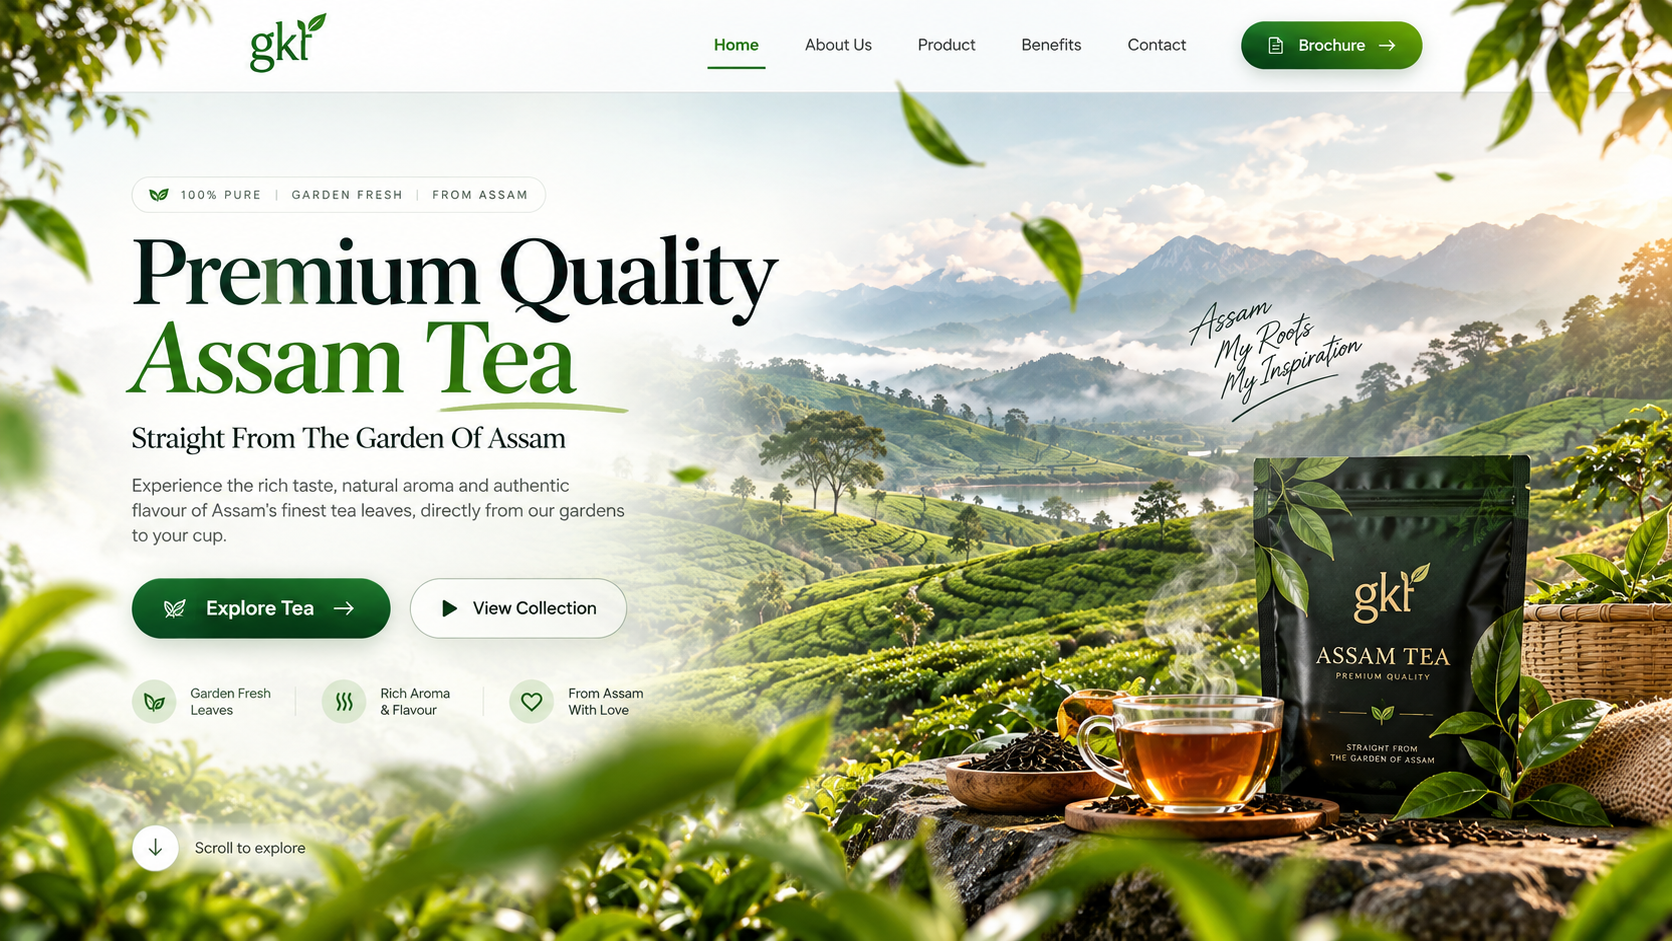
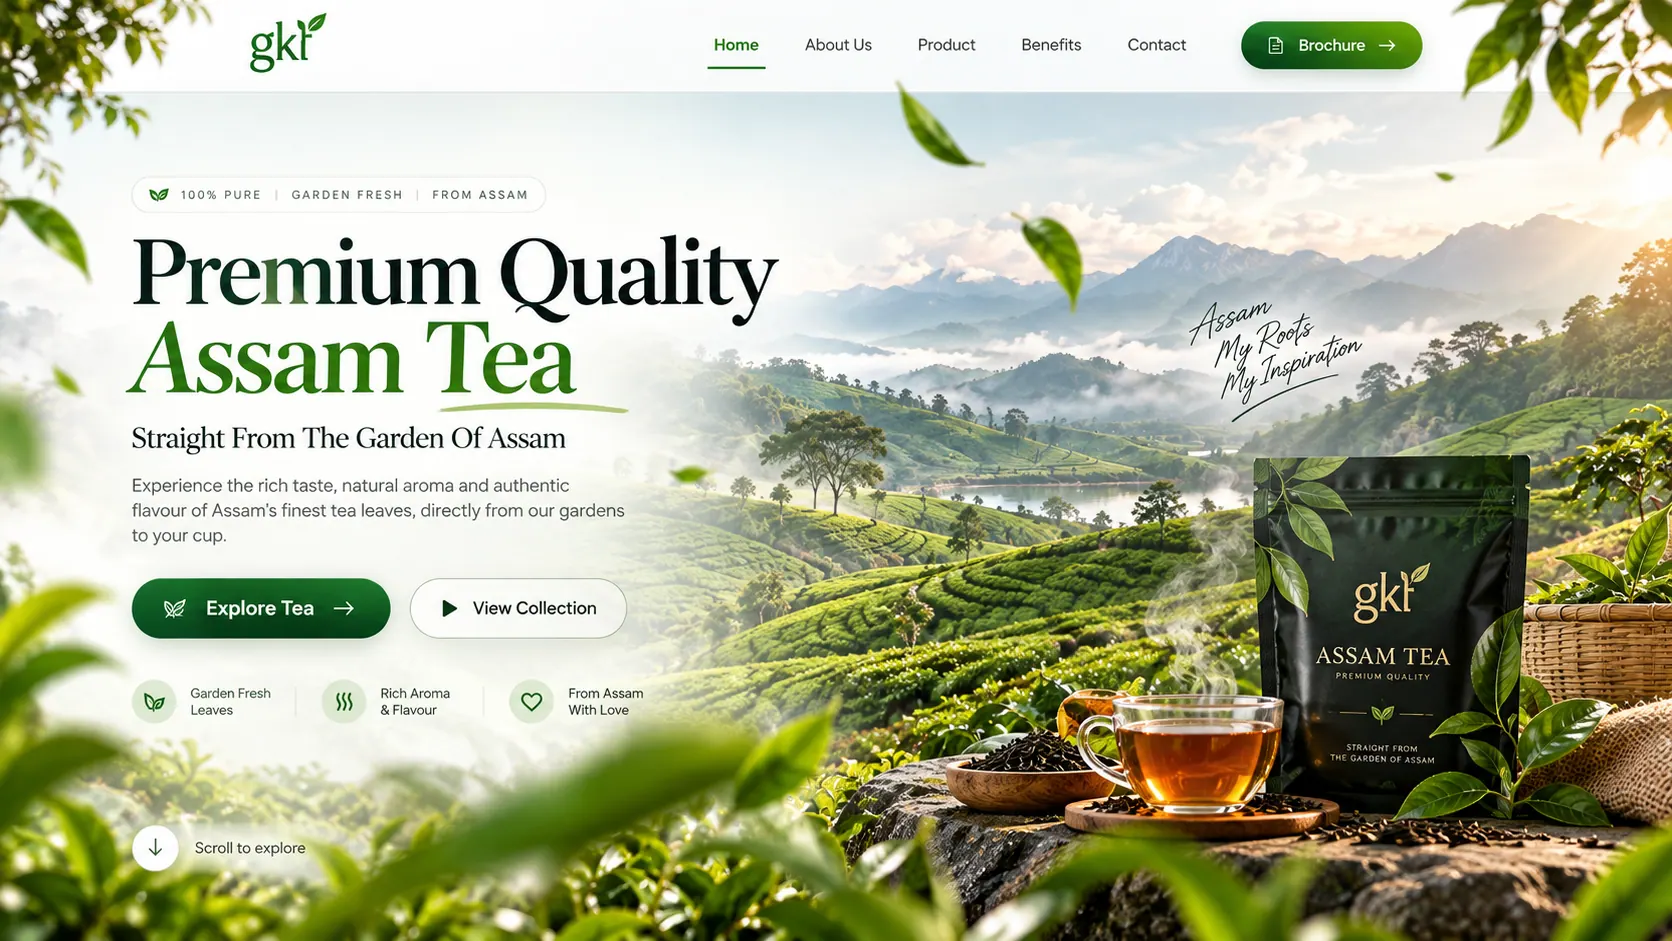
Performance: split JS into lazy chunks, compress/convert images to WebP, single font request, lazy images, lighter audio preload

Changed region(s): [[0.9952, 0.5239, 1.0, 0.5547]]

diff --git a/src/App.tsx b/src/App.tsx
@@ -9,13 +9,6 @@ import GlobalBackground from "@/components/GlobalBackground";
 import Navbar from "@/components/Navbar";
 import Hero from "@/components/Hero";
 import Marquee from "@/components/Marquee";
-import About from "@/components/About";
-import Projects from "@/components/Projects";
-import VideoShowcase from "@/components/video-showcase/VideoShowcase";
-import Services from "@/components/Services";
-import Testimonials from "@/components/testimonials/Testimonials";
-import Contact from "@/components/Contact";
-import Footer from "@/components/Footer";
 import NotFound from "@/pages/not-found";
 import ServiceDetail from "@/pages/ServiceDetail";
 import Support from "@/pages/Support";
@@ -23,6 +16,23 @@ import Analytics from "@/components/Analytics";
 import { captureAttribution } from "@/lib/attribution";
 
 // Private admin dashboard — lazy so it adds nothing to the public bundle.
+// Below-the-fold sections load as separate chunks, then are prefetched when the browser is idle
+const loadAbout = () => import("@/components/About");
+const About = lazy(loadAbout);
+const loadProjects = () => import("@/components/Projects");
+const Projects = lazy(loadProjects);
+const loadVideoShowcase = () => import("@/components/video-showcase/VideoShowcase");
+const VideoShowcase = lazy(loadVideoShowcase);
+const loadServices = () => import("@/components/Services");
+const Services = lazy(loadServices);
+const loadTestimonials = () => import("@/components/testimonials/Testimonials");
+const Testimonials = lazy(loadTestimonials);
+const loadContact = () => import("@/components/Contact");
+const Contact = lazy(loadContact);
+const loadFooter = () => import("@/components/Footer");
+const Footer = lazy(loadFooter);
+const prefetchSections = [loadAbout, loadProjects, loadVideoShowcase, loadServices, loadTestimonials, loadContact, loadFooter];
+function SectionFallback() { return <div aria-hidden="true" className="min-h-[60vh]" />; }
 const Admin = lazy(() => import("@/pages/Admin"));
 
 const queryClient = new QueryClient();
@@ -41,20 +51,31 @@ function Portfolio() {
     return () => window.clearTimeout(t);
   }, []);
 
+  useEffect(() => {
+    const run = () => prefetchSections.forEach((l) => { l().catch(() => {}); });
+    const w = window as Window & { requestIdleCallback?: (cb: () => void, o?: { timeout: number }) => number };
+    if (w.requestIdleCallback) w.requestIdleCallback(run, { timeout: 4000 });
+    else setTimeout(run, 2500);
+  }, []);
+
   return (
     <>
       <Navbar />
       <main className="max-w-full overflow-x-hidden">
         <Hero />
         <Marquee />
-        <About />
-        <Projects />
-        <VideoShowcase />
-        <Services />
-        <Testimonials />
-        <Contact />
+        <Suspense fallback={<SectionFallback />}>
+          <About />
+          <Projects />
+          <VideoShowcase />
+          <Services />
+          <Testimonials />
+          <Contact />
+        </Suspense>
       </main>
-      <Footer />
+      <Suspense fallback={null}>
+        <Footer />
+      </Suspense>
     </>
   );
 }

diff --git a/src/pages/ServiceDetail.tsx b/src/pages/ServiceDetail.tsx
@@ -51,7 +51,7 @@ function ToolBadge({ t }: { t: Tool }) {
     <div className="flex w-[92px] flex-col items-center gap-2 text-center sm:w-[104px]">
       <span className="flex h-16 w-16 items-center justify-center rounded-2xl border border-slate-100 bg-white shadow-sm transition duration-300 hover:-translate-y-1 hover:shadow-lg sm:h-[72px] sm:w-[72px]">
         {t.logo ? (
-          <img src={t.logo} alt="" className="h-9 w-9 rounded-md" />
+          <img loading="lazy" decoding="async" src={t.logo} alt="" className="h-9 w-9 rounded-md" />
         ) : Icon ? (
           <Icon className="text-3xl sm:text-[34px]" style={{ color: t.color }} />
         ) : (
@@ -152,7 +152,7 @@ export default function ServiceDetail() {
                     const Icon = b.icon;
                     return (
                       <span key={b.label} title={b.label} className="flex h-12 w-12 items-center justify-center rounded-2xl bg-white shadow-md">
-                        {b.logo ? <img src={b.logo} alt={b.label} className="h-7 w-7 rounded-md" /> : Icon ? <Icon className="text-2xl" style={{ color: b.color }} /> : <span className="text-lg font-extrabold" style={{ color: b.color }}>{b.text}</span>}
+                        {b.logo ? <img loading="lazy" decoding="async" src={b.logo} alt={b.label} className="h-7 w-7 rounded-md" /> : Icon ? <Icon className="text-2xl" style={{ color: b.color }} /> : <span className="text-lg font-extrabold" style={{ color: b.color }}>{b.text}</span>}
                       </span>
                     );
                   })}

diff --git a/src/components/Hero.tsx b/src/components/Hero.tsx
@@ -7,7 +7,7 @@ import { desktopMasks, mobileMasks } from "@/components/parallaxMasks";
 import "@/components/brush-reveal.css";
 import { motion, useScroll, useTransform, useSpring, useMotionValueEvent, useInView, useReducedMotion } from "@/lib/static-motion";
 import { useRef, useState, useEffect } from "react";
-import teaBg from "../assets/images/file_0000000066b08207b18b1ec1e8269869.png";
+import teaBg from "../assets/images/file_0000000066b08207b18b1ec1e8269869.webp";
 import teaBgMobile from "../assets/images/tea-brush-mobile.webp";
 import SplitText from "@/components/ui/SplitText";
 import HeroCTAs from "@/components/HeroCTA";
@@ -18,9 +18,9 @@ import PortraitFX from "@/components/PortraitFX";
 
 // ── Desktop-only Hero assets ──────────────────────────────────────────────
 import desktopPortrait from "../assets/images/Desktop Nikhil Paharia profile photo.png";
-import brushStroke from "../assets/images/blue-brush-stroke.png";
+import brushStroke from "../assets/images/blue-brush-stroke.webp";
 import botamLeft from "../assets/images/botam-left.png";
-import ovalLandscape from "../assets/images/Assam landscape.png";
+import ovalLandscape from "../assets/images/Assam landscape.webp";
 import threeStrokes from "../assets/images/three-strokes.png.png";
 // assam-map-clean.webp ships with its "transparent" background baked in as an
 // opaque checkerboard (no real alpha channel) — assam-map-transparent.png is

diff --git a/src/components/About.tsx b/src/components/About.tsx
@@ -1920,12 +1920,12 @@ export default function About() {
                   style={{}}
                 >
                   <NotebookPage className="p-0 flex items-center justify-center overflow-hidden">
-                    <img src={aboutPage1} alt="About Me — The Beginning: from a tea garden village in Assam to building things on the internet" draggable={false} className="w-full h-full object-contain select-none" />
+                    <img loading="lazy" decoding="async" src={aboutPage1} alt="About Me — The Beginning: from a tea garden village in Assam to building things on the internet" draggable={false} className="w-full h-full object-contain select-none" />
                   </NotebookPage>
 
                   {/* ═══════════ PAGE 2 ═══════════ */}
                   <NotebookPage className="p-0 flex items-center justify-center overflow-hidden">
-                    <img src={aboutPage2} alt="About Me — Art with a purpose: what I do, tech I work with, daily fuel" draggable={false} className="w-full h-full object-contain select-none" />
+                    <img loading="lazy" decoding="async" src={aboutPage2} alt="About Me — Art with a purpose: what I do, tech I work with, daily fuel" draggable={false} className="w-full h-full object-contain select-none" />
                   </NotebookPage>
 
                   {/* ═══════════ PAGES 3–10 — the photo gallery ═══════════

diff --git a/src/components/video-showcase/VideoLightbox.tsx b/src/components/video-showcase/VideoLightbox.tsx
@@ -192,7 +192,7 @@ export default function VideoLightbox({ items, index, onIndexChange, onClose }: 
                     className={`absolute inset-0 transition-opacity duration-500 ${loaded ? "opacity-0 pointer-events-none" : "opacity-100"}`}
                     aria-hidden={loaded}
                   >
-                    {item.image && <img src={item.image} alt="" className="absolute inset-0 w-full h-full object-cover" />}
+                    {item.image && <img loading="lazy" decoding="async" src={item.image} alt="" className="absolute inset-0 w-full h-full object-cover" />}
                     <div className="absolute inset-0 bg-black/55" />
                     <div className="absolute inset-0 flex flex-col items-center justify-center gap-3 text-white/90">
                       <span className="w-10 h-10 rounded-full border-2 border-white/25 border-t-white animate-spin motion-reduce:animate-none" />

diff --git a/src/components/video-showcase/FeaturedVideoCard.tsx b/src/components/video-showcase/FeaturedVideoCard.tsx
@@ -293,7 +293,7 @@ export default function FeaturedVideoCard() {
                 }`}
               >
                 <div className={`absolute inset-0 transition-opacity duration-500 ${loaded ? "opacity-0 pointer-events-none" : "opacity-100"}`} aria-hidden={loaded}>
-                  <img src={current.image} alt="" className="absolute inset-0 w-full h-full object-cover" />
+                  <img loading="lazy" decoding="async" src={current.image} alt="" className="absolute inset-0 w-full h-full object-cover" />
                   <div className="absolute inset-0 bg-black/55 flex flex-col items-center justify-center gap-3 text-white/90">
                     <span className="w-10 h-10 rounded-full border-2 border-white/25 border-t-white animate-spin motion-reduce:animate-none" />
                     <span className="text-[11px] font-semibold uppercase tracking-[0.16em]">Loading film…</span>

diff --git a/index.html b/index.html
@@ -49,7 +49,7 @@
     <link rel="icon" type="image/svg+xml" href="/favicon.svg" />
     <link rel="preconnect" href="https://fonts.googleapis.com">
     <link rel="preconnect" href="https://fonts.gstatic.com" crossorigin>
-    <link href="https://fonts.googleapis.com/css2?family=Inter:wght@400;500;600;700&family=Anton&family=DM+Sans:wght@500;700&family=Kalam:wght@400;700&family=Montserrat:ital,wght@0,800;1,800&display=swap" rel="stylesheet">
+    <link href="https://fonts.googleapis.com/css2?family=Inter:wght@400;500;600;700&family=Anton&family=DM+Sans:wght@500;700&family=Kalam:wght@400;700&family=Montserrat:ital,wght@0,800;1,800&family=Caveat:wght@500;700&family=Space+Grotesk:wght@300..700&family=Syne:wght@400..800&display=swap" rel="stylesheet">
   </head>
   <body>
     <div id="root"></div>

diff --git a/vite.config.ts b/vite.config.ts
@@ -19,6 +19,18 @@ export default defineConfig({
   build: {
     outDir: path.resolve(import.meta.dirname, "dist"),
     emptyOutDir: true,
+    rollupOptions: {
+      output: {
+        manualChunks(id: string) {
+          if (!id.includes("node_modules")) return undefined;
+          if (/framer-motion|motion-dom|motion-utils/.test(id)) return "vendor-motion";
+          if (/node_modules\/gsap/.test(id)) return "vendor-gsap";
+          if (/@radix-ui|cmdk|vaul|embla/.test(id)) return "vendor-ui";
+          if (/node_modules\/(react|react-dom|scheduler|wouter)\//.test(id)) return "vendor-react";
+          return undefined;
+        },
+      },
+    },
   },
   server: { port, host: "0.0.0.0", allowedHosts: true },
   preview: { port, host: "0.0.0.0", allowedHosts: true },

diff --git a/src/components/testimonials/SubmitTestimonialModal.tsx b/src/components/testimonials/SubmitTestimonialModal.tsx
@@ -284,7 +284,7 @@ export default function SubmitTestimonialModal({ open, onClose }: SubmitTestimon
                       <div className="flex items-center gap-3">
                         <div className="w-12 h-12 rounded-full overflow-hidden bg-slate-100 border border-slate-200 flex items-center justify-center shrink-0">
                           {photoDataUrl ? (
-                            <img src={photoDataUrl} alt="" className="w-full h-full object-cover" />
+                            <img loading="lazy" decoding="async" src={photoDataUrl} alt="" className="w-full h-full object-cover" />
                           ) : (
                             <User className="w-5 h-5 text-slate-400" aria-hidden="true" />
                           )}

diff --git a/src/components/ServicesMobileStack.tsx b/src/components/ServicesMobileStack.tsx
@@ -104,7 +104,7 @@ function FanDeckCard({ service, index, total }: { service: ServiceItem; index: n
                     className="w-12 h-12 sm:w-14 sm:h-14 rounded-2xl bg-white flex items-center justify-center shadow-sm overflow-hidden"
                   >
                     {b.logo ? (
-                      <img src={b.logo} alt={b.label} className="w-7 h-7 sm:w-8 sm:h-8 rounded-md" />
+                      <img loading="lazy" decoding="async" src={b.logo} alt={b.label} className="w-7 h-7 sm:w-8 sm:h-8 rounded-md" />
                     ) : Icon ? (
                       <Icon className="text-2xl sm:text-3xl" style={{ color: b.color }} />
                     ) : (

diff --git a/src/components/Skills.tsx b/src/components/Skills.tsx
@@ -161,7 +161,7 @@ function GlassSkillCard({ skill, index }: { skill: Skill; index: number }) {
                          transition-transform duration-500 group-hover:-translate-y-0.5 group-hover:rotate-3 overflow-hidden"
             >
               {skill.logo ? (
-                <img src={skill.logo} alt="" className="w-5 h-5 sm:w-6 sm:h-6 rounded-md" />
+                <img loading="lazy" decoding="async" src={skill.logo} alt="" className="w-5 h-5 sm:w-6 sm:h-6 rounded-md" />
               ) : Icon ? (
                 <Icon className="text-lg sm:text-xl" style={{ color: skill.color }} />
               ) : null}

diff --git a/src/constants/videoShowcase.ts b/src/constants/videoShowcase.ts
@@ -4,10 +4,10 @@ import {
   Tv,
   Heart,
 } from "lucide-react";
-import mistyValley from "@/assets/images/tea-garden-about.png";
+import mistyValley from "@/assets/images/tea-garden-about.webp";
 import cliffSunset from "@/assets/images/tea-sunset-person-wide.webp";
 import teaPortrait from "@/assets/images/tea-sunset-portrait.webp";
-import teaGarden from "@/assets/images/tea-garden-hero.png";
+import teaGarden from "@/assets/images/tea-garden-hero.webp";
 import creatorPhoto from "@/assets/images/my-new-photo.jpg";
 import vid1 from "@/assets/images/video-1.png";
 import vid2 from "@/assets/images/video-2.png";
